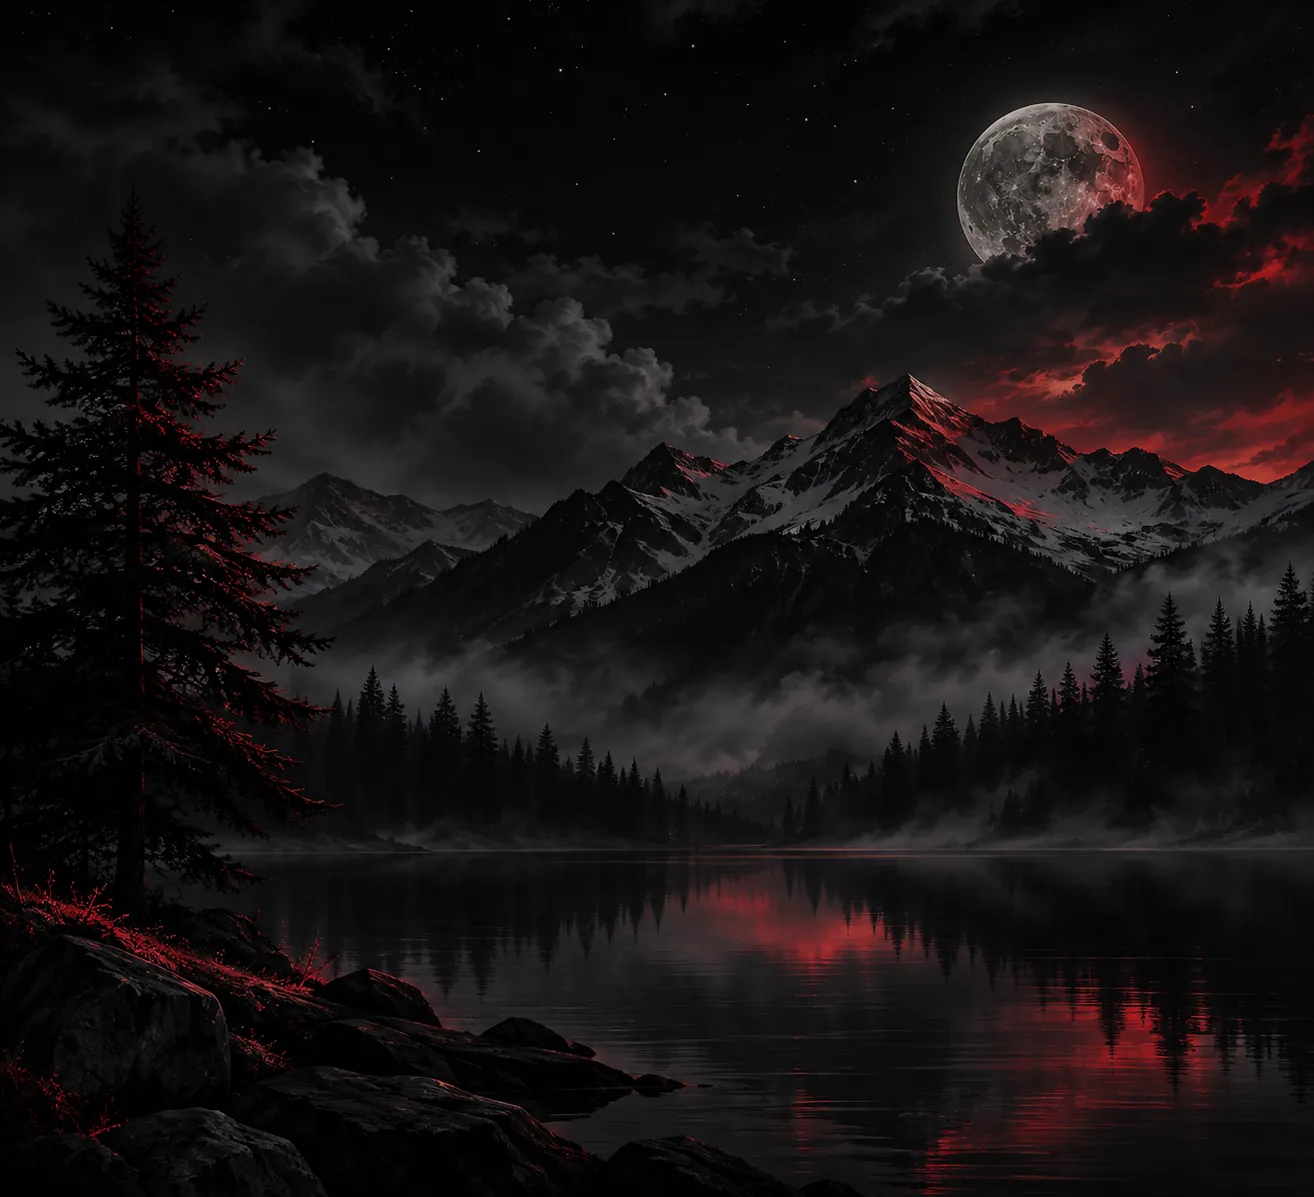
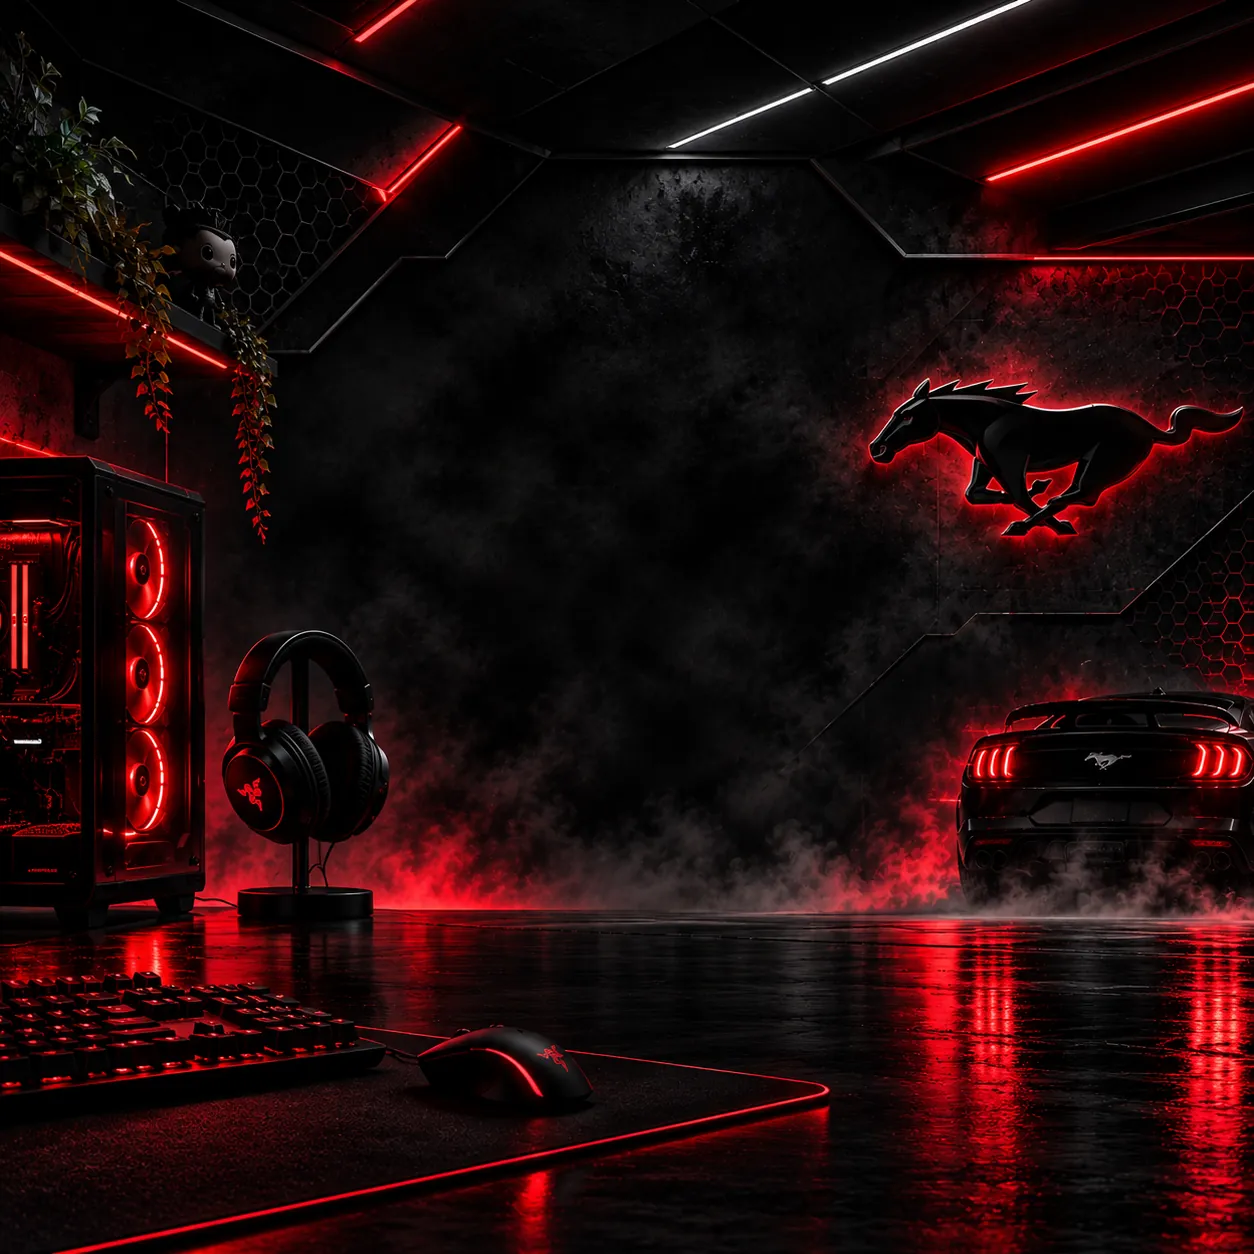
Release 3.6.1: neues Kalender-Hintergrundbild (Gaming-Garage mit Mustang) (Cache schulvault-v15)
Claude-Session: https://claude.ai/code/session_01BhMNCTmSex59wFY5z4bmyh

diff --git a/index.html b/index.html
@@ -360,13 +360,13 @@ code{background:var(--accent-soft);padding:1px 6px;border-radius:var(--radius-s)
 .legend i.hol{background:var(--hatch);box-shadow:inset 0 0 0 1px color-mix(in srgb,var(--danger) 40%,transparent)}
 @media (max-width:400px){.cal-grid{grid-template-columns:22px repeat(7,1fr);gap:2px}.cal-day .dn{font-size:.9rem}.calnav b{font-size:1.125rem}}
 
-/* ---------- Kalender-Hintergrundbild (Bennys Bild „Bergsee bei Nacht“, nur Dunkelmodus) ----------
+/* ---------- Kalender-Hintergrundbild (Bennys Bild „Gaming-Garage mit Mustang“, nur Dunkelmodus) ----------
    Das Bild liegt nur hinter dem Kalender (.cal-bild um das Raster), die Legende darunter bleibt auf der normalen Fläche.
    Zum Entfernen: diesen Block, die Klasse „bild“ an .cal-panel in vCalMonth() und kalender-bild.webp löschen.
-   Lesbarkeit: dunkler Verlauf über dem Bild, Tage halb durchsichtig, Schatten unter der Schrift; Mond oben hinter der Wochentagszeile. */
+   Lesbarkeit: dunkler Verlauf über dem Bild, Tage halb durchsichtig, Schatten unter der Schrift. Neues Bild: Datei ersetzen und ?v= ändern (auch in sw.js). */
 @media (prefers-color-scheme:dark){
   .cal-panel.bild .cal-bild{margin:-8px -8px 0;padding:8px;border-radius:var(--radius) var(--radius) 0 0;
-    background:linear-gradient(180deg,rgba(9,12,16,.30),rgba(9,12,16,.10) 45%,rgba(9,12,16,.40)),url("kalender-bild.webp") 72% 100%/auto 112% no-repeat,#0d1116;
+    background:linear-gradient(180deg,rgba(9,12,16,.55),rgba(9,12,16,.12) 18%,rgba(9,12,16,.08) 60%,rgba(9,12,16,.35)),url("kalender-bild.webp?v=garage") 50% 50%/cover no-repeat,#0d1116;
     --cell:rgba(24,31,40,.56);--cell-we:rgba(14,18,23,.62);--cell-out:rgba(10,13,17,.52)}
   .cal-panel.bild .cal-bild:last-child{margin-bottom:-10px;border-radius:var(--radius)}
   .cal-panel.bild .legend{margin-top:0;border-top:0;padding-top:12px}
@@ -380,7 +380,7 @@ code{background:var(--accent-soft);padding:1px 6px;border-radius:var(--radius-s)
   .cal-panel.bild .cal-head:nth-child(8){color:#ff6b78}
 }
 @media (prefers-color-scheme:dark) and (min-width:900px){
-  .cal-panel.bild .cal-bild{margin:-12px -12px 0;padding:12px;background-position:center,72% 28%;background-size:auto,cover}
+  .cal-panel.bild .cal-bild{margin:-12px -12px 0;padding:12px;background-position:center,50% 52%;background-size:auto,cover}
   .cal-panel.bild .cal-bild:last-child{margin-bottom:-14px}
 }
 
@@ -554,7 +554,7 @@ button.stat:hover{border-color:var(--accent);border-top-color:var(--tone,var(--a
                 laufen im Kalender zentral zusammen.
    Alles lokal in IndexedDB, Sync optional über privates GitHub-Repo.
    ===================================================================== */
-const APP_VERSION = '3.6.0';
+const APP_VERSION = '3.6.1';
 const COLL = ['years', 'fields', 'docs', 'atts', 'todos', 'exams', 'turnusTypes', 'turnusWeeks', 'turnusDays', 'events', 'notes', 'grades'];
 const S = { years: [], fields: [], docs: [], atts: [], todos: [], exams: [], turnusTypes: [], turnusWeeks: [], turnusDays: [], events: [], notes: [], grades: [] };
 const COLORS = ['#4f46e5', '#0ea5e9', '#10b981', '#f59e0b', '#ef4444', '#ec4899', '#8b5cf6', '#64748b'];

diff --git a/sw.js b/sw.js
@@ -1,6 +1,6 @@
 // LifeVault Service Worker: Netzwerk zuerst (Updates kommen sofort an), Cache als Offline-Fallback
-const CACHE = 'schulvault-v14';
-const ASSETS = ['./', './index.html', './manifest.webmanifest', './icon-192.png', './icon-512.png', './icon-maskable-512.png?v=tresor', './kalender-bild.webp'];
+const CACHE = 'schulvault-v15';
+const ASSETS = ['./', './index.html', './manifest.webmanifest', './icon-192.png', './icon-512.png', './icon-maskable-512.png?v=tresor', './kalender-bild.webp?v=garage'];
 const PUSH_SEEN = 'sv-push-seen';   // gezeigte Erinnerungs-Schlüssel (teilt sich mit der App), damit nichts doppelt piept
 const SHARE = 'sv-share';           // aus anderen Apps geteilte Dateien, bis die App sie ablegt (Ansicht #/teilen)
 

diff --git a/CLAUDE.md b/CLAUDE.md
@@ -25,7 +25,7 @@ Persönliche PWA für Schule und Alltag: Unterlagen (mit Fotos/Dateien), Notizen
 - Hintergrund (`body::before`/`::after`, fest stehend): Lichtverlauf `--bg-top` → `--bg-bottom`, roter Schimmer oben rechts (`--glow`), blauer unten links (`--glow2`), feines Zeichenraster (`--grid`, `--grid-major`), das nach unten ausblendet. Benny nutzt den Dunkelmodus; dort zuerst prüfen. Dezent halten, Karten müssen klar davor stehen.
 - Leisten (Titelleiste oben, Menüleiste unten bzw. Seitenleiste am PC): rotes Zahlenrad um das Sync-Symbol (`--dial`), feine Leiterbahnen (`--trace`, `--trace-v`) und ein warmer „Lichtspalt“ an der Kante (`--seam`, `--seam-glow`) – Zahlenrad und Lichtspalt stammen aus dem App-Symbol. Rein dekorativ (Hintergrund bzw. Pseudo-Elemente ohne Klicks).
 - Startbildschirm `#splash` (nur installierte App, `display-mode: standalone`): folgt auf Androids einfarbigen Start (`background_color`), Zahlenrad rastet ein, verschwindet über `hideSplash()` nach ca. 1 s, spätestens nach 4 s per CSS. Eine Grafik direkt auf Androids eigenem Startbild geht nicht, dort gibt es nur Farbe + Symbol.
-- Kalenderfläche (`.cal-panel.bild`, nur Dunkelmodus): Bennys Bild `kalender-bild.webp` (Bergsee bei Nacht, roter Mond) liegt nur hinter dem Kalender selbst (`.cal-bild` um das Raster), die Legende darunter bleibt auf der normalen Fläche. Dunkler Verlauf, Tage halb durchsichtig, Zahlen mit Schatten. Entfernen: CSS-Block „Kalender-Hintergrundbild“, Klasse `bild` in `vCalMonth()` und die Datei.
+- Kalenderfläche (`.cal-panel.bild`, nur Dunkelmodus): Bennys Bild `kalender-bild.webp` (Gaming-Garage mit rotem Neonlicht und Mustang; vorher Bergsee bei Nacht, siehe Git-Verlauf) liegt nur hinter dem Kalender selbst (`.cal-bild` um das Raster), die Legende darunter bleibt auf der normalen Fläche. Dunkler Verlauf, Tage halb durchsichtig, Zahlen mit Schatten. Entfernen: CSS-Block „Kalender-Hintergrundbild“, Klasse `bild` in `vCalMonth()` und die Datei. Bild tauschen: Datei ersetzen und die Versionsangabe `?v=…` an der Bildadresse in `index.html` und in `ASSETS` von `sw.js` ändern.
 - Freie Tage (Feiertage) schraffiert über `--hatch`. Turnus-Arten als Farbband (Startseite) bzw. Tönung (Monatskalender).
 - Umschalter (`.seg`, `.tabs`, `.chip.btnlike`) wie Wahlschalter: aktive Stellung in Tusche gefüllt.
 - `manifest.webmanifest`: `theme_color` `#19212a` und `background_color` `#10151b` (dunkel). Chrome färbt damit bei der installierten App die Android-Leiste unten und das Startbild; Benny nutzt den Dunkelmodus, daher nicht hell machen. Änderungen daran kommen auf dem Handy erst an, wenn Chrome die installierte App aktualisiert (kann ein bis zwei Tage dauern).

diff --git a/.claude/skills/release/SKILL.md b/.claude/skills/release/SKILL.md
@@ -65,6 +65,7 @@ Bisherige Versionen zur Orientierung:
 | 3.4.2 | 18.11.2026 | klein | Kalenderbild nur noch hinter dem Kalender, Legende auf normaler Fläche |
 | 3.5.0 | 18.11.2026 | mittel | Zeugnisnote je Lernfeld (hervorgehoben), Lernfeld-Durchschnitt nur aus normalen Noten, Schuljahres-Durchschnitt aus Zeugnisnoten (klein unter den Lernfeldern) |
 | 3.6.0 | 18.11.2026 | mittel | Teilen in LifeVault (Fotos/Dateien/Text aus anderen Apps), wiederkehrende Aufgaben, Papierkorb (30 Tage, Zurückholen samt Unterelementen), Sicherung mit Fotos als ZIP |
+| 3.6.1 | 19.11.2026 | klein | neues Kalender-Hintergrundbild (Gaming-Garage mit Mustang statt Bergsee) |
 
 Ohne eigene Nummer: der zweite Upload am 24.09. (dieselben Dateien noch einmal) und die Claude-Code-Einrichtung am 16.11. (an der App hat sich nichts geändert). Neue Versionen hier unten in der Tabelle ergänzen.
 
